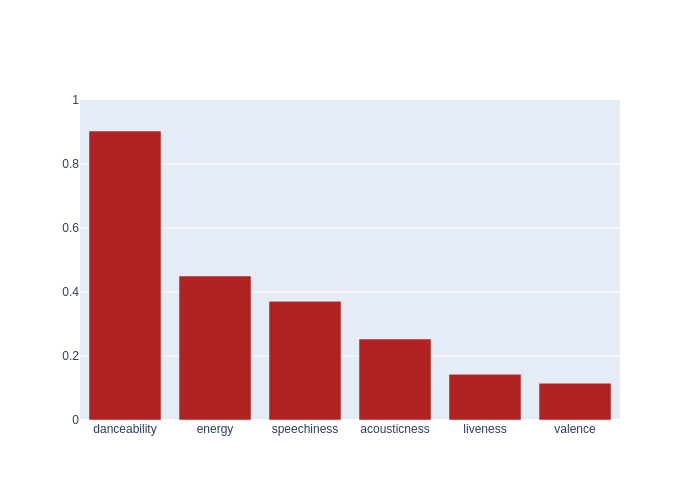
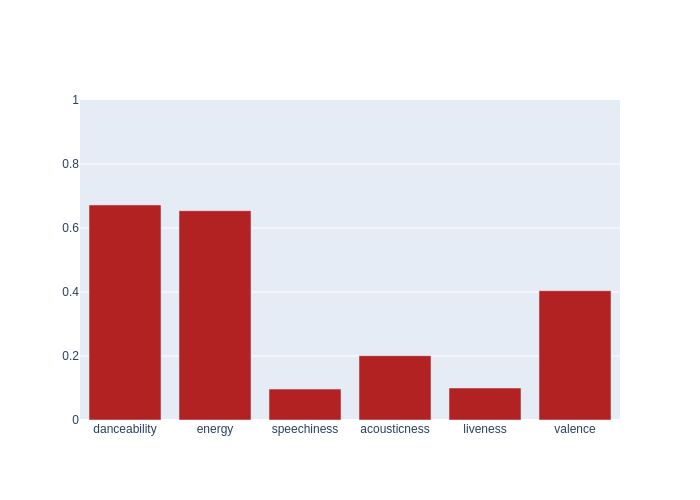
Automated README update

diff --git a/README.md b/README.md
@@ -4,7 +4,7 @@ Automated music metrics for fun, updated hourly.
 
 ## Spotify
 
-- currently listening to **DDG - Rucci**
+- currently listening to **Trippie Redd - Matt Hardy 999 (feat. Juice WRLD)**
 
 - **920** liked songs
 - **154** playlists
